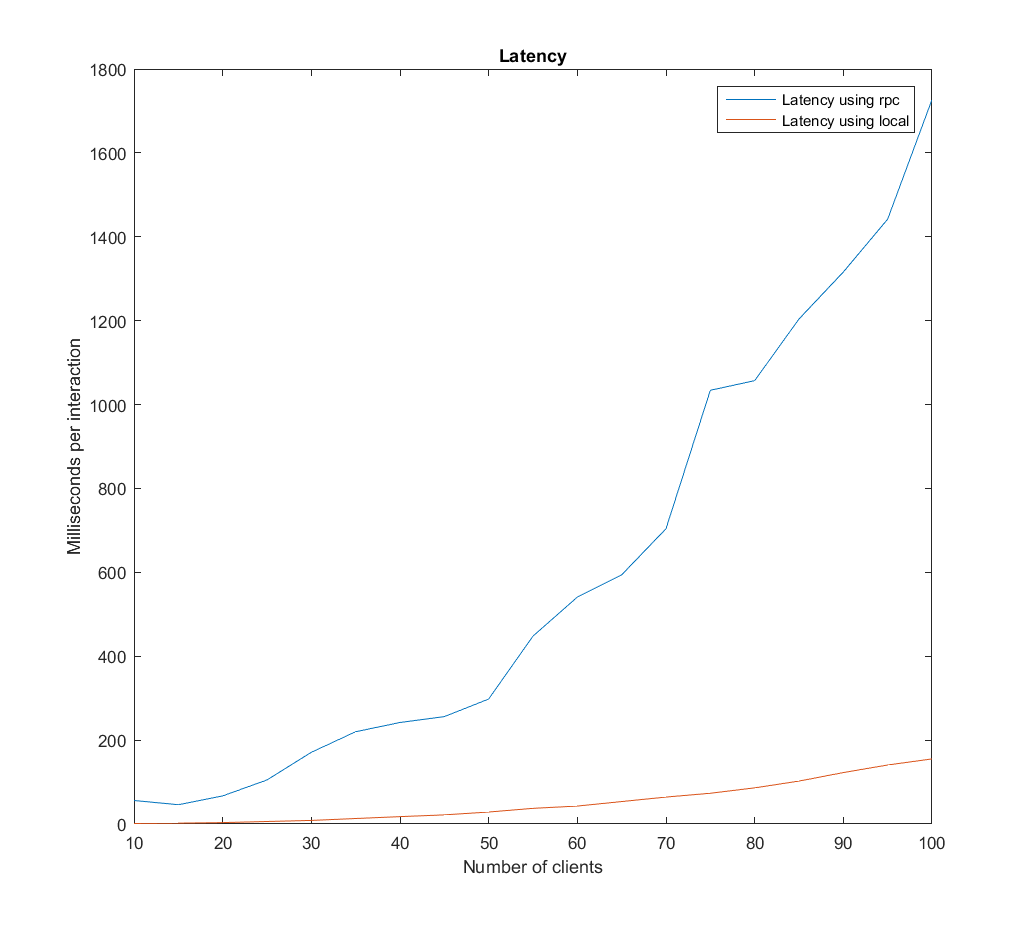
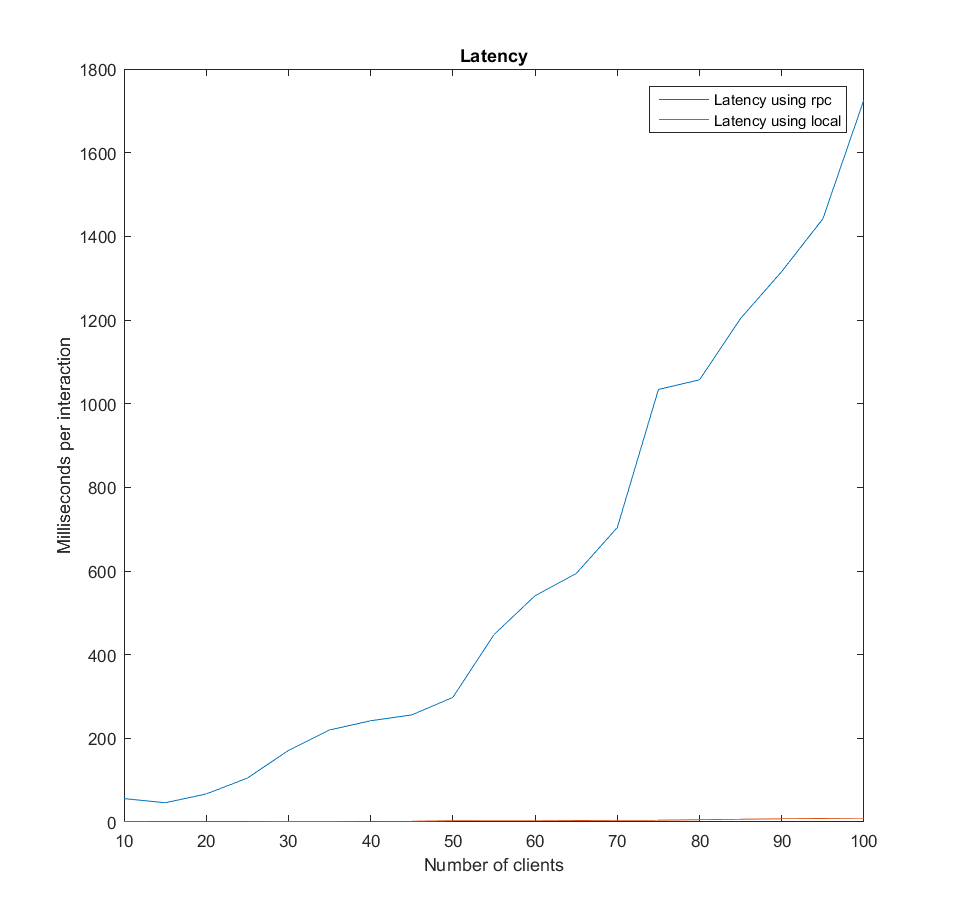
New plots and more report

diff --git a/assignment4_acs.tex b/assignment4_acs.tex
@@ -144,24 +144,29 @@ We ran the tests on a macbook with the following specs:
 \end{itemize}
 \textbf{Workload configuration:}
 We configured every worker to get up to 10 editorpicks and chose 5 books from this set to by 1 copy of each book as the client interaction which is run roughly 60\% of the total runs. For the replenishment interaction we chose to add 10 copies to the 5 books with the least copies, which is run about 30\% of the total runs. Finally for the stock acquisition interaction we chose to add 5 new books which is run roughly 10\% of the total runs.\\
-For the local tests 100 warm up runs are used and 1000 actual runs are used, and for the RPC tests 10 warm up runs and 100 actual runs are used. This is because the overhead of RPC adds considerable latency, as can be seen in the plots later, which would take hours or more to run, but the workload for each run is the same for either test.
+For the local tests 100 warm up runs are used and 1000 actual runs are used, and for the RPC tests 10 warm up runs and 100 actual runs are used. This is because the overhead of RPC adds considerable latency, as can be seen in the plots later, which would take hours or more to run, but the workload for each run is the same for either test.\\
+In the reporting of the metrics, we add up the total number of interactions, the total number of client interactions, the throughput and latency of each worker. All this information is used to validate that the number of client interactions constitute roughly 60% of the total interactions, that more than 99% of the interactions are successful and report the total throughput for all workers and the combined average latency as milliseconds between each interaction.
 
 
 \subsection{Plots of throughput and latency}
 
-Figure 1 shows the throughput at various amounts of concurrent clients when running the test locally and using RPC and figure 2 shows latency at various amounts of concurrent clients when running the test locally and using RPC.
+\textbf{Throughput:}
+Figure 1 shows the throughput at various amounts of concurrent clients when running the test locally and using RPC. Since the number for the local measurements are so much greater than the RPC ones it is hard to see the trends for RPC but they are roughly the same as for the local measurements except smoother due to the overhead RPC adds. From this plot it looks as if the throughput initially increases as the number of clients increases, but at a certain point the number of clients starts to reduce the overall throughput. This is to be expected as initially there will be a gain in throughput as one client will be able to utilize the wasted throughput that could be achieved when another client is not accessing the bookstore. However as more clients are added the potential wasted time from waiting for the bookstore to become available starts to hurt the overall throughput. 
+The plot also shows an outlier in the data for the local measurement at 45 clients. Such outliers can be explained by the machine running the test running other applications in the background that might take up or free resources at various points. Had we run the measurement with an increment at intervals of 1 client instead of 5 the curve would probably have become much smoother and such outliers would stand out less but the time needed to run the measurement would also become much greater.\\
+\textbf{latency}
+ Figure 2 shows the latency at various amounts of concurrent clients when running the test locally and using RPC.
 
-\centering
+{\centering
 \begin{figure}
 	\hspace*{-2.2in}
-	\includegraphics[scale=0.85]{throughput}
+	\includegraphics[scale=0.9]{throughput}
 	\caption{Plot of the measurements of throughput}
 \end{figure}
 \begin{figure}
 	\hspace*{-2.2in}
-	\includegraphics[scale=0.85]{latency}
+	\includegraphics[scale=0.9]{latency}
 	\caption{Plot of the measurements of latency}
-\end{figure}
+\end{figure}}
 
 \subsection{Reliability of the metrics}
 This is a good measure of performance when everything runs as expected, but one thing the measurement is missing is failures. In the real world there will be failures and how well a system responds to and recovers from failures is a big part of overall performance. So one other metric could be to count the number of errors, and maybe calculate the average time between each error.
